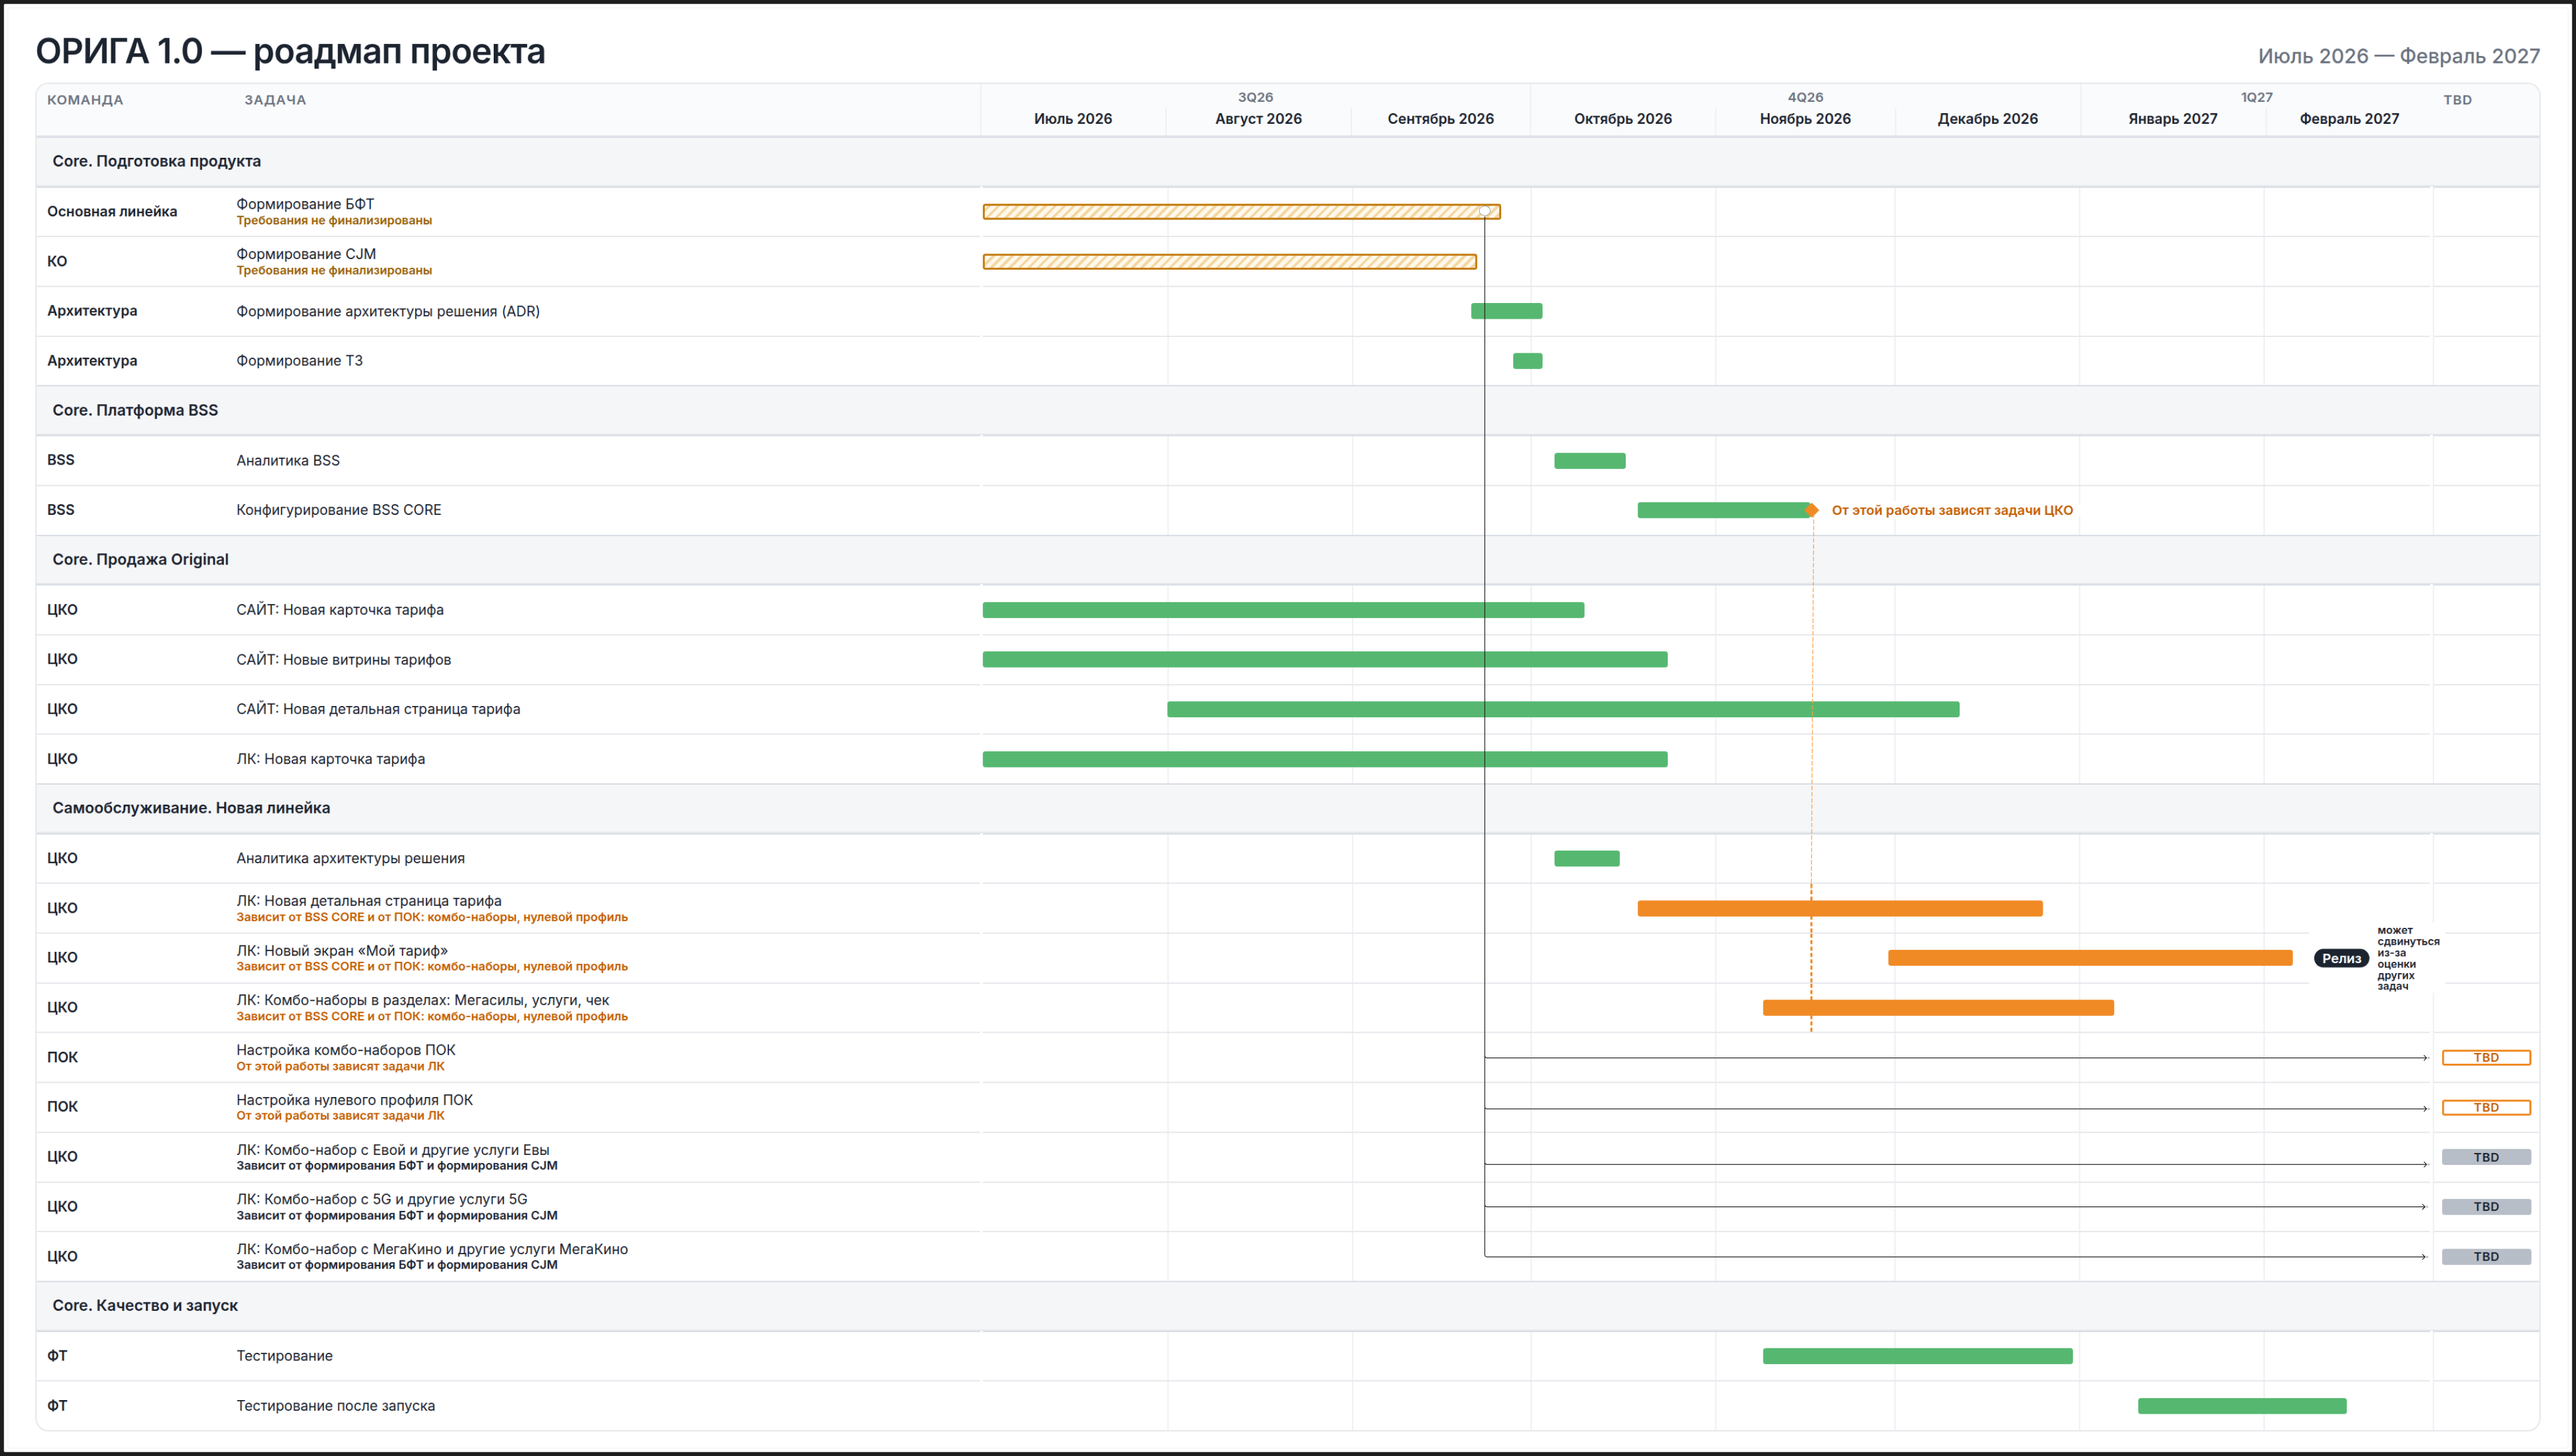
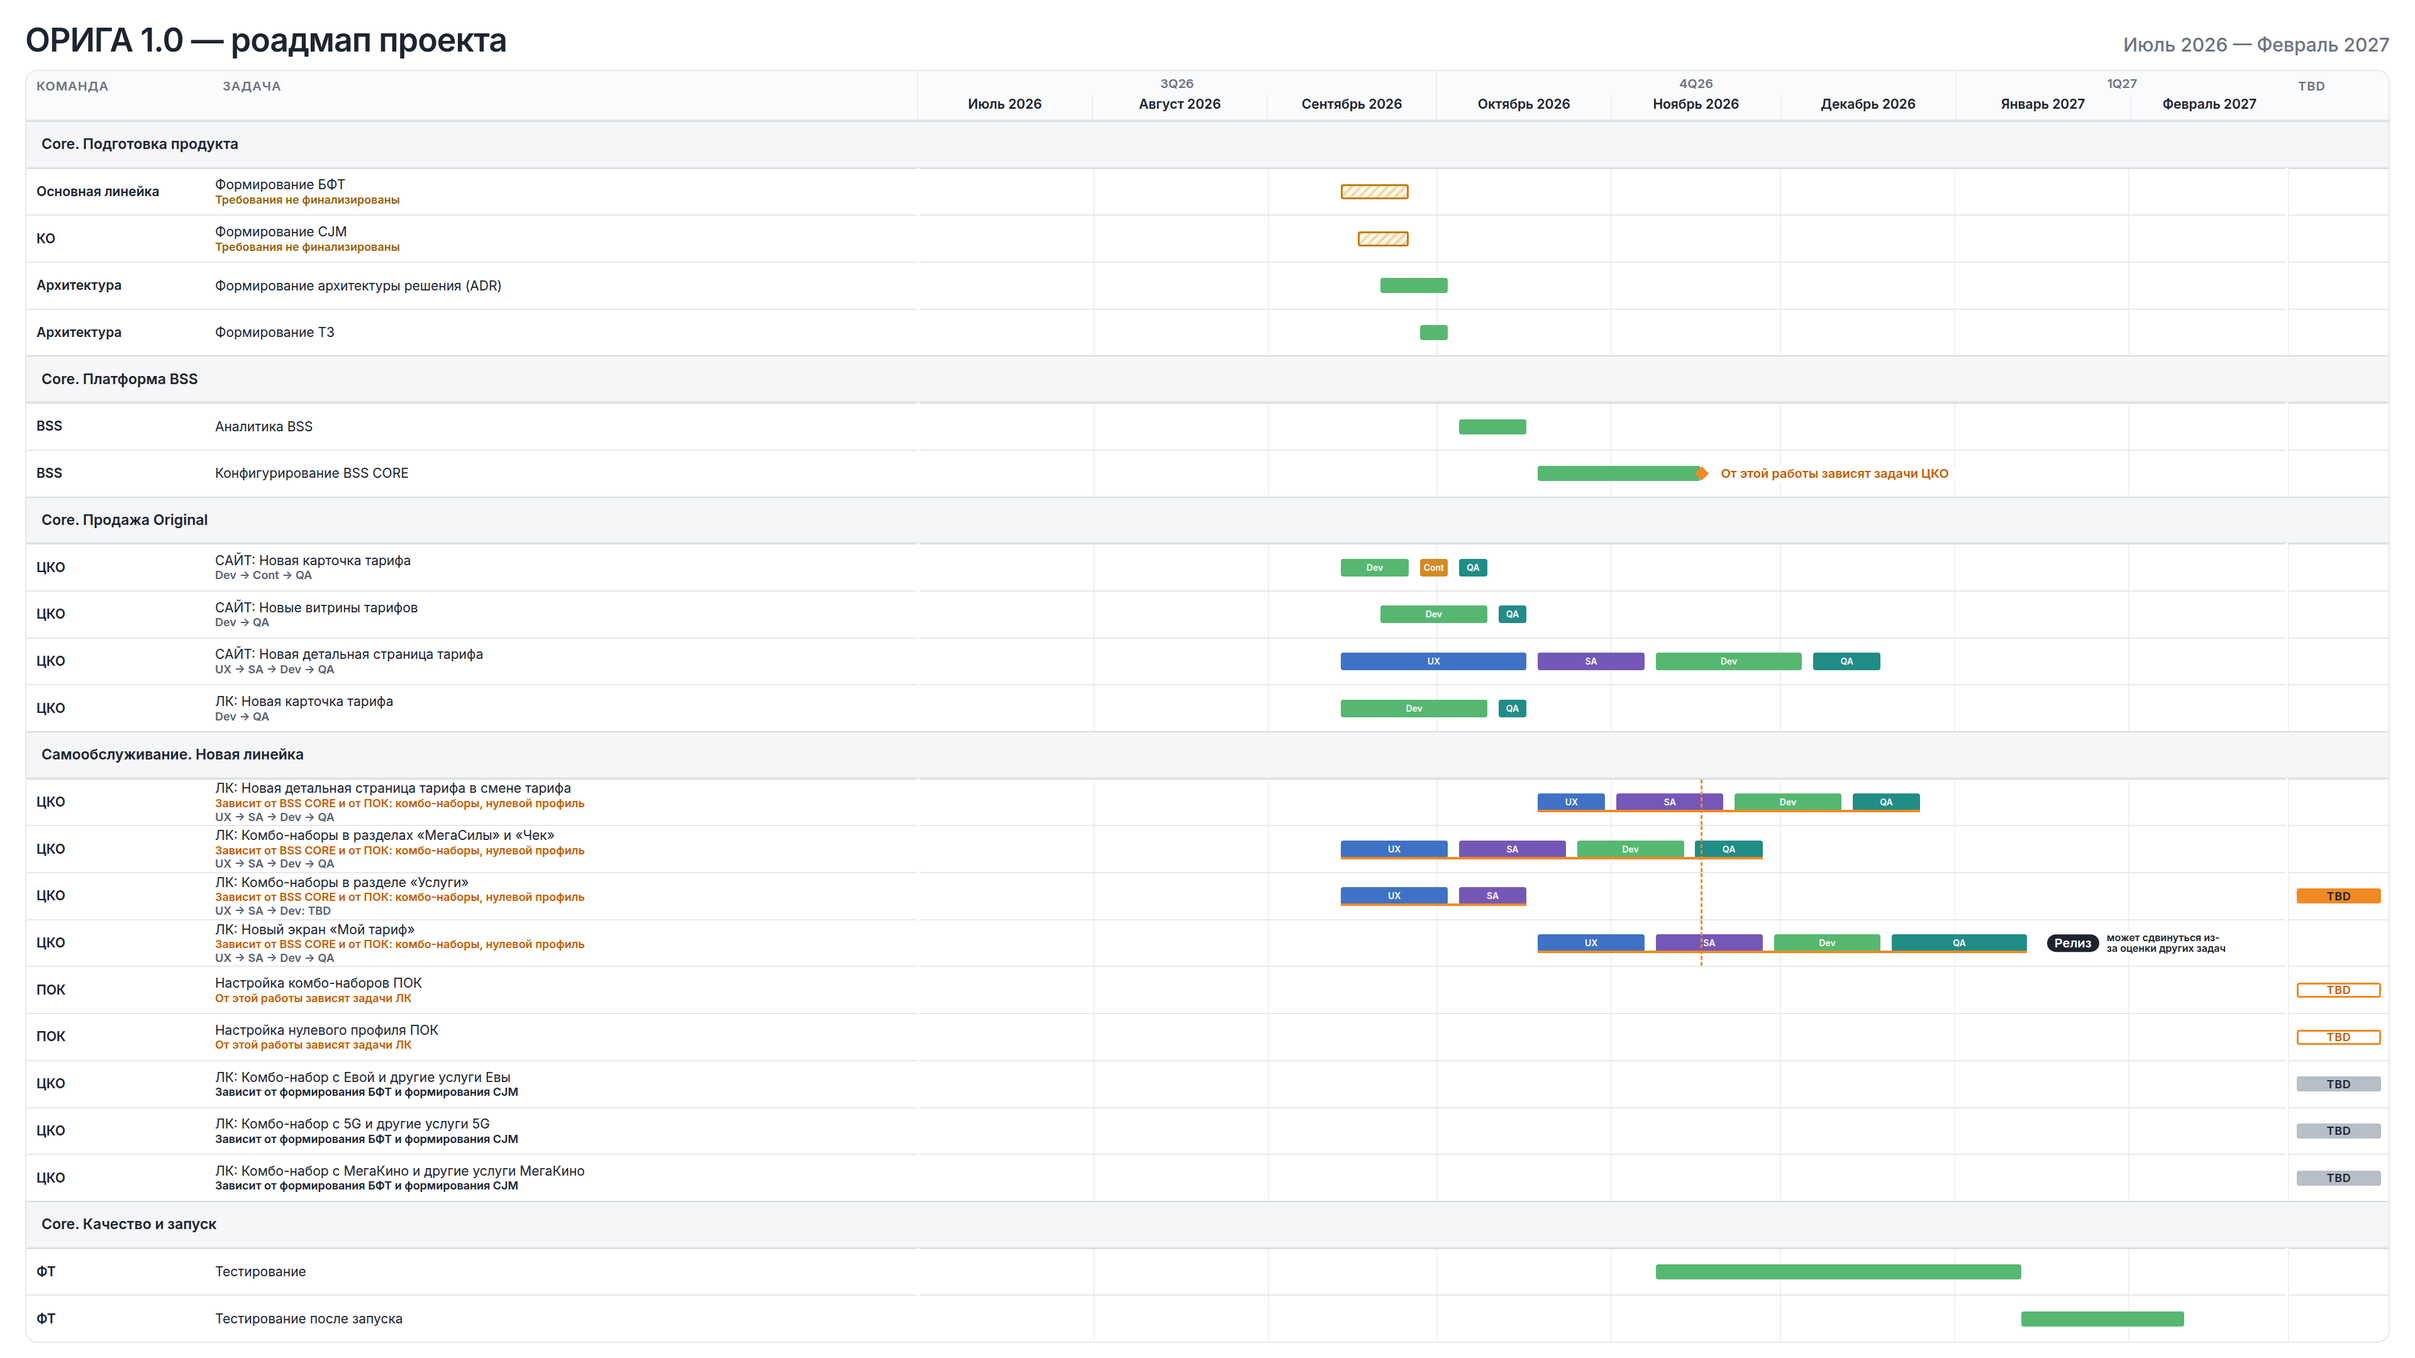
Update roadmap dates and add CKO role phases

diff --git a/roadmap/data.js b/roadmap/data.js
@@ -7,8 +7,8 @@ window.ROADMAP_DATA = {
     {
       title: 'Core. Подготовка продукта',
       rows: [
-        { team: 'Основная линейка', task: 'Формирование БФТ', start: '2026-07-01', end: '2026-09-25', requirementsOpen: true, id: 'bft' },
-        { team: 'КО', task: 'Формирование CJM', start: '2026-07-01', end: '2026-09-21', requirementsOpen: true, id: 'cjm' },
+        { team: 'Основная линейка', task: 'Формирование БФТ', start: '2026-09-14', end: '2026-09-25', requirementsOpen: true, id: 'bft' },
+        { team: 'КО', task: 'Формирование CJM', start: '2026-09-17', end: '2026-09-25', requirementsOpen: true, id: 'cjm' },
         { team: 'Архитектура', task: 'Формирование архитектуры решения (ADR)', start: '2026-09-21', end: '2026-10-02' },
         { team: 'Архитектура', task: 'Формирование ТЗ', start: '2026-09-28', end: '2026-10-02' },
       ],
@@ -23,19 +23,80 @@ window.ROADMAP_DATA = {
     {
       title: 'Core. Продажа Original',
       rows: [
-        { team: 'ЦКО', task: 'САЙТ: Новая карточка тарифа', start: '2026-07-01', end: '2026-10-09' },
-        { team: 'ЦКО', task: 'САЙТ: Новые витрины тарифов', start: '2026-07-01', end: '2026-10-23' },
-        { team: 'ЦКО', task: 'САЙТ: Новая детальная страница тарифа', start: '2026-08-01', end: '2026-12-11' },
-        { team: 'ЦКО', task: 'ЛК: Новая карточка тарифа', start: '2026-07-01', end: '2026-10-23' },
+        {
+          team: 'ЦКО', task: 'САЙТ: Новая карточка тарифа', start: '2026-09-14', end: '2026-10-09',
+          roles: [
+            { role: 'Dev', start: '2026-09-14', end: '2026-09-25' },
+            { role: 'Content', start: '2026-09-28', end: '2026-10-02' },
+            { role: 'QA', start: '2026-10-05', end: '2026-10-09' },
+          ],
+        },
+        {
+          team: 'ЦКО', task: 'САЙТ: Новые витрины тарифов', start: '2026-09-21', end: '2026-10-16',
+          roles: [
+            { role: 'Dev', start: '2026-09-21', end: '2026-10-09' },
+            { role: 'QA', start: '2026-10-12', end: '2026-10-16' },
+          ],
+        },
+        {
+          team: 'ЦКО', task: 'САЙТ: Новая детальная страница тарифа', start: '2026-09-14', end: '2026-12-18',
+          roles: [
+            { role: 'UX/UI', start: '2026-09-14', end: '2026-10-16' },
+            { role: 'SA', start: '2026-10-19', end: '2026-11-06' },
+            { role: 'Dev', start: '2026-11-09', end: '2026-12-04' },
+            { role: 'QA', start: '2026-12-07', end: '2026-12-18' },
+          ],
+        },
+        {
+          team: 'ЦКО', task: 'ЛК: Новая карточка тарифа', start: '2026-09-14', end: '2026-10-16',
+          roles: [
+            { role: 'Dev', start: '2026-09-14', end: '2026-10-09' },
+            { role: 'QA', start: '2026-10-12', end: '2026-10-16' },
+          ],
+        },
       ],
     },
     {
       title: 'Самообслуживание. Новая линейка',
       rows: [
-        { team: 'ЦКО', task: 'Аналитика архитектуры решения', start: '2026-10-05', end: '2026-10-15' },
-        { team: 'ЦКО', task: 'ЛК: Новая детальная страница тарифа', start: '2026-10-19', end: '2026-12-25', dependsOn: ['bss-core', 'pok-combo', 'pok-zero'] },
-        { team: 'ЦКО', task: 'ЛК: Новый экран «Мой тариф»', start: '2026-11-30', end: '2027-02-05', dependsOn: ['bss-core', 'pok-combo', 'pok-zero'], release: true },
-        { team: 'ЦКО', task: 'ЛК: Комбо-наборы в разделах: Мегасилы, услуги, чек', start: '2026-11-09', end: '2027-01-06', dependsOn: ['bss-core', 'pok-combo', 'pok-zero'] },
+        {
+          team: 'ЦКО', task: 'ЛК: Новая детальная страница тарифа в смене тарифа', start: '2026-10-19', end: '2026-12-25',
+          dependsOn: ['bss-core', 'pok-combo', 'pok-zero'],
+          roles: [
+            { role: 'UX/UI', start: '2026-10-19', end: '2026-10-30' },
+            { role: 'SA', start: '2026-11-02', end: '2026-11-20' },
+            { role: 'Dev', start: '2026-11-23', end: '2026-12-11' },
+            { role: 'QA', start: '2026-12-14', end: '2026-12-25' },
+          ],
+        },
+        {
+          team: 'ЦКО', task: 'ЛК: Комбо-наборы в разделах «МегаСилы» и «Чек»', start: '2026-09-14', end: '2026-11-27',
+          dependsOn: ['bss-core', 'pok-combo', 'pok-zero'],
+          roles: [
+            { role: 'UX/UI', start: '2026-09-14', end: '2026-10-02' },
+            { role: 'SA', start: '2026-10-05', end: '2026-10-23' },
+            { role: 'Dev', start: '2026-10-26', end: '2026-11-13' },
+            { role: 'QA', start: '2026-11-16', end: '2026-11-27' },
+          ],
+        },
+        {
+          team: 'ЦКО', task: 'ЛК: Комбо-наборы в разделе «Услуги»', start: '2026-09-14', end: '2026-10-16',
+          dependsOn: ['bss-core', 'pok-combo', 'pok-zero'], partialTbd: true,
+          roles: [
+            { role: 'UX/UI', start: '2026-09-14', end: '2026-10-02' },
+            { role: 'SA', start: '2026-10-05', end: '2026-10-16' },
+          ],
+        },
+        {
+          team: 'ЦКО', task: 'ЛК: Новый экран «Мой тариф»', start: '2026-10-19', end: '2027-01-13',
+          dependsOn: ['bss-core', 'pok-combo', 'pok-zero'], release: true,
+          roles: [
+            { role: 'UX/UI', start: '2026-10-19', end: '2026-11-06' },
+            { role: 'SA', start: '2026-11-09', end: '2026-11-27' },
+            { role: 'Dev', start: '2026-11-30', end: '2026-12-18' },
+            { role: 'QA', start: '2026-12-21', end: '2027-01-13' },
+          ],
+        },
         { team: 'ПОК', task: 'Настройка комбо-наборов ПОК', tbd: true, id: 'pok-combo' },
         { team: 'ПОК', task: 'Настройка нулевого профиля ПОК', tbd: true, id: 'pok-zero' },
         { team: 'ЦКО', task: 'ЛК: Комбо-набор с Евой и другие услуги Евы', tbd: true, dependsOn: ['bft', 'cjm'] },
@@ -46,8 +107,8 @@ window.ROADMAP_DATA = {
     {
       title: 'Core. Качество и запуск',
       rows: [
-        { team: 'ФТ', task: 'Тестирование', start: '2026-11-09', end: '2026-12-30' },
-        { team: 'ФТ', task: 'Тестирование после запуска', start: '2027-01-11', end: '2027-02-14' },
+        { team: 'ФТ', task: 'Тестирование', start: '2026-11-09', end: '2027-01-12' },
+        { team: 'ФТ', task: 'Тестирование после запуска', start: '2027-01-13', end: '2027-02-10' },
       ],
     },
   ],

diff --git a/roadmap/render.js b/roadmap/render.js
@@ -24,6 +24,14 @@
       .replace(/"/g, '&quot;');
   }
 
+  function roleClass(role) {
+    return role.toLowerCase().replace(/[^a-z]/g, '') || 'other';
+  }
+
+  function roleLabel(role) {
+    return role === 'Content' ? 'Cont' : role === 'UX/UI' ? 'UX' : role;
+  }
+
   const chart = document.querySelector('.chart');
   if (!chart) return;
 
@@ -122,6 +130,10 @@
       }
       if (dependsOnPrep) note += '<span class="task-note link">Зависит от формирования БФТ и формирования CJM</span>';
       if (isPokSource) note += '<span class="task-note source">От этой работы зависят задачи ЛК</span>';
+      if (row.roles) {
+        const roles = [...new Set(row.roles.map((segment) => roleLabel(segment.role)))];
+        note += `<span class="task-note roles">${esc(roles.join(' → '))}${row.partialTbd ? ' → Dev: TBD' : ''}</span>`;
+      }
       const laneMeta = `${row.id ? ` data-id="${esc(row.id)}"` : ''}${dependsOnPrep ? ' data-prep="1"' : ''}`;
       html += `<div class="team${group}">${esc(row.team)}</div>`;
       html += `<div class="task${group}"${dependsOnPrep ? ' data-prep="1"' : ''}><span class="task-name">${esc(row.task)}</span>${note}</div>`;
@@ -143,14 +155,23 @@
         row.id === 'bss-core' ? 'anchor' : '',
       ].filter(Boolean).join(' ');
       const geom = barGeom(row);
+      const roleBars = row.roles
+        ? row.roles.map((segment) => {
+          const segmentGeom = barGeom(segment);
+          return `<i class="role-segment role-${roleClass(segment.role)}" style="${segmentGeom.style}" title="${esc(segment.role)}: ${esc(segment.start)} — ${esc(segment.end)}"><span>${esc(roleLabel(segment.role))}</span></i>`;
+        }).join('')
+        : `<i class="${cls}" style="${geom.style}"></i>`;
+      const dependencyLine = row.roles && orange
+        ? `<i class="dependency-line" style="${geom.style}"></i>`
+        : '';
       const flag = row.id === 'bss-core' && depAt != null
         ? `<span class="dep-flag" style="left:calc(${depAt.toFixed(4)}% + 10px)">От этой работы зависят задачи ЦКО</span>`
         : '';
       const release = row.release
         ? `<span class="release-mark" style="left:calc(${(geom.left + geom.width).toFixed(4)}% + 6px)"><b>Релиз</b><span>может сдвинуться из-за оценки других задач</span></span>`
         : '';
-      html += `<div class="lane${dependsOnBss ? ' dep' : ''}${group}"${laneMeta}><i class="${cls}" style="${geom.style}"></i>${depTick}${flag}${release}</div>`;
-      html += `<div class="tbd-cell${group}"></div>`;
+      html += `<div class="lane${dependsOnBss ? ' dep' : ''}${group}"${laneMeta}>${dependencyLine}${roleBars}${depTick}${flag}${release}</div>`;
+      html += `<div class="tbd-cell${group}">${row.partialTbd ? '<span class="tbd dep">TBD</span>' : ''}</div>`;
     });
   });
 

diff --git a/roadmap/roadmap.css b/roadmap/roadmap.css
@@ -186,6 +186,7 @@ h1 {
 .task-note.dep,
 .task-note.source { color: #c45e00; }
 .task-note.link { color: #1c2430; }
+.task-note.roles { color: #576170; }
 
 .team.group, .task.group, .lane.group, .tbd-cell.group {
   border-top: 1px solid #d8dde4;
@@ -221,6 +222,45 @@ h1 {
 
 .bar.dep {
   background: #f08a24;
+}
+
+.role-segment {
+  position: absolute;
+  top: 50%;
+  height: 14px;
+  margin-top: -7px;
+  border-radius: 2px;
+  color: #fff;
+  font-style: normal;
+  overflow: hidden;
+  z-index: 1;
+}
+
+.role-segment span {
+  position: absolute;
+  inset: 0 1px;
+  display: flex;
+  align-items: center;
+  justify-content: center;
+  font-size: 7px;
+  font-weight: 700;
+  line-height: 1;
+  white-space: nowrap;
+}
+
+.role-uxui { background: #3f72c6; }
+.role-sa { background: #7557b8; }
+.role-dev { background: #56b870; }
+.role-qa { background: #208d87; }
+.role-content { background: #d28b22; }
+
+.dependency-line {
+  position: absolute;
+  top: 50%;
+  height: 2px;
+  margin-top: 6px;
+  background: #f08a24;
+  z-index: 2;
 }
 
 .bar.anchor::after {
